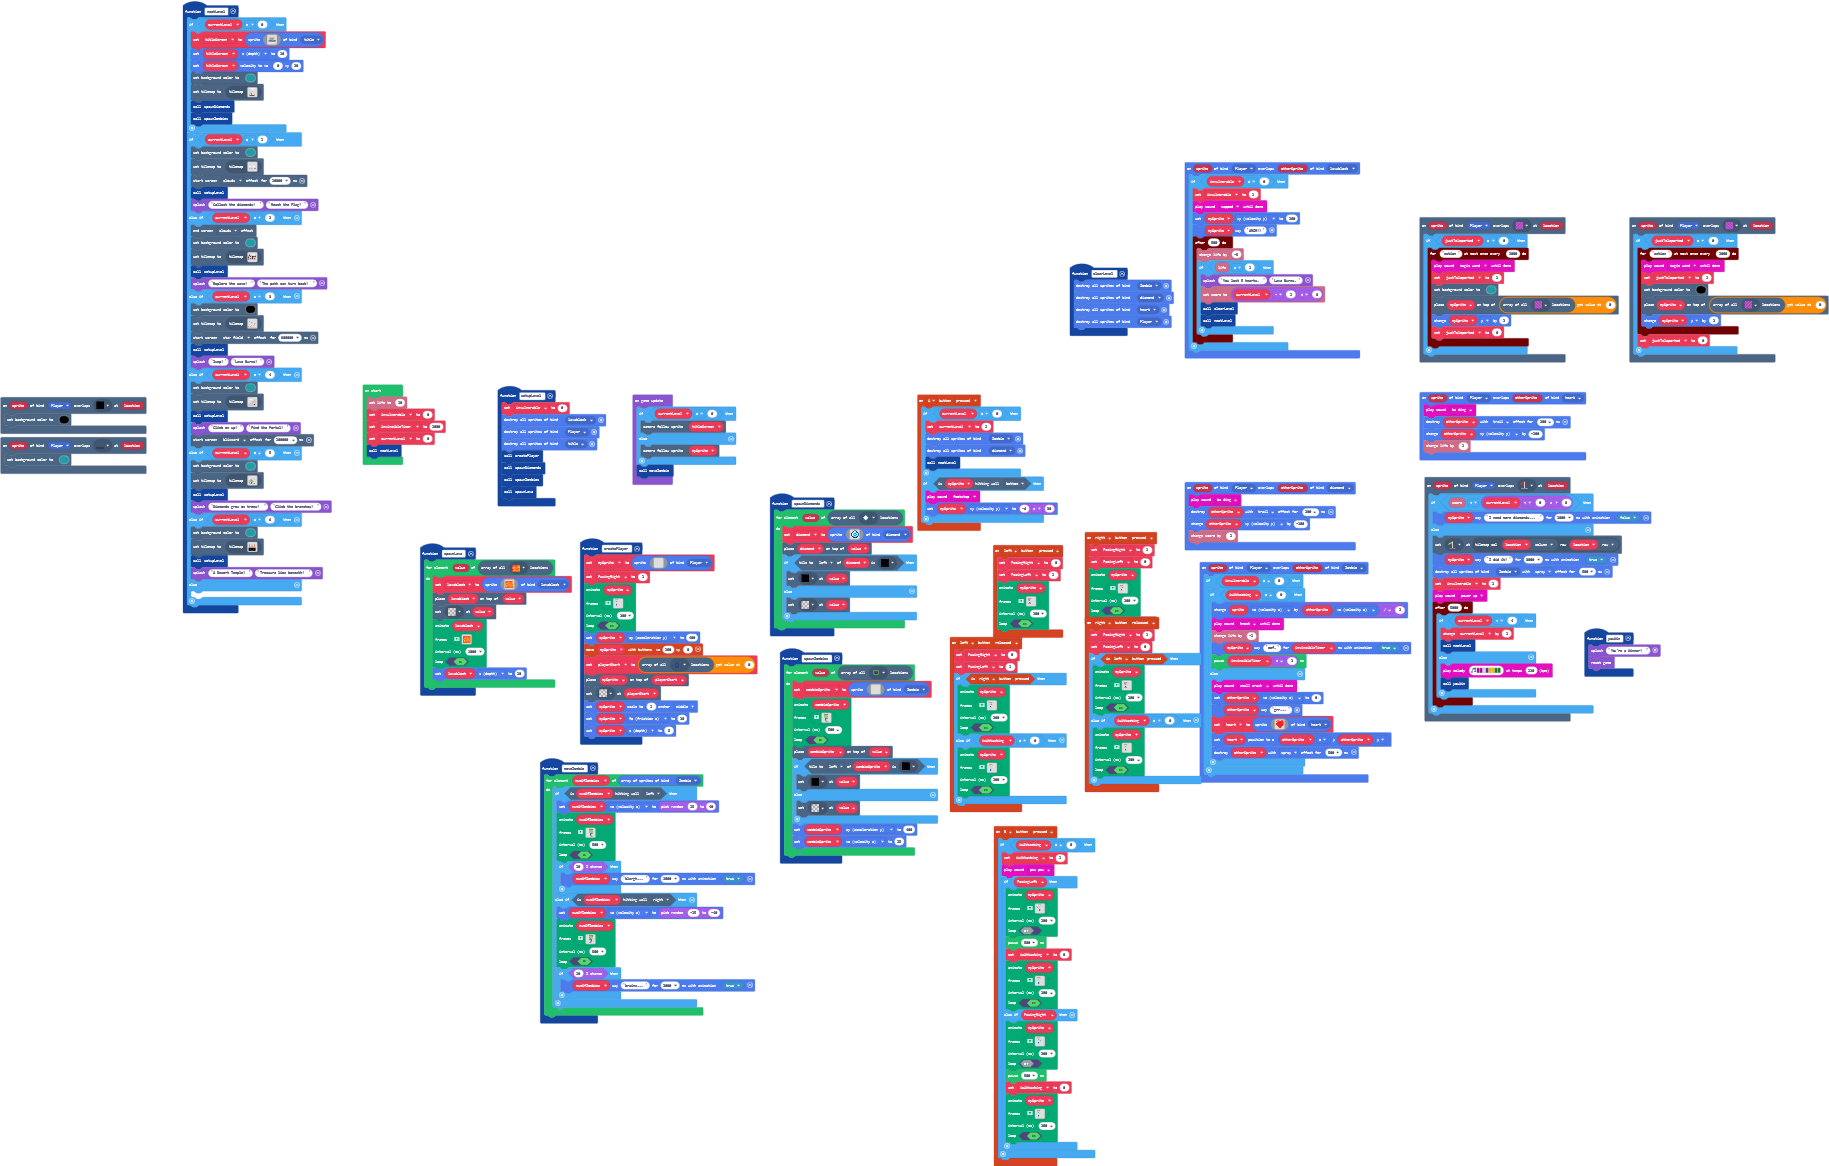
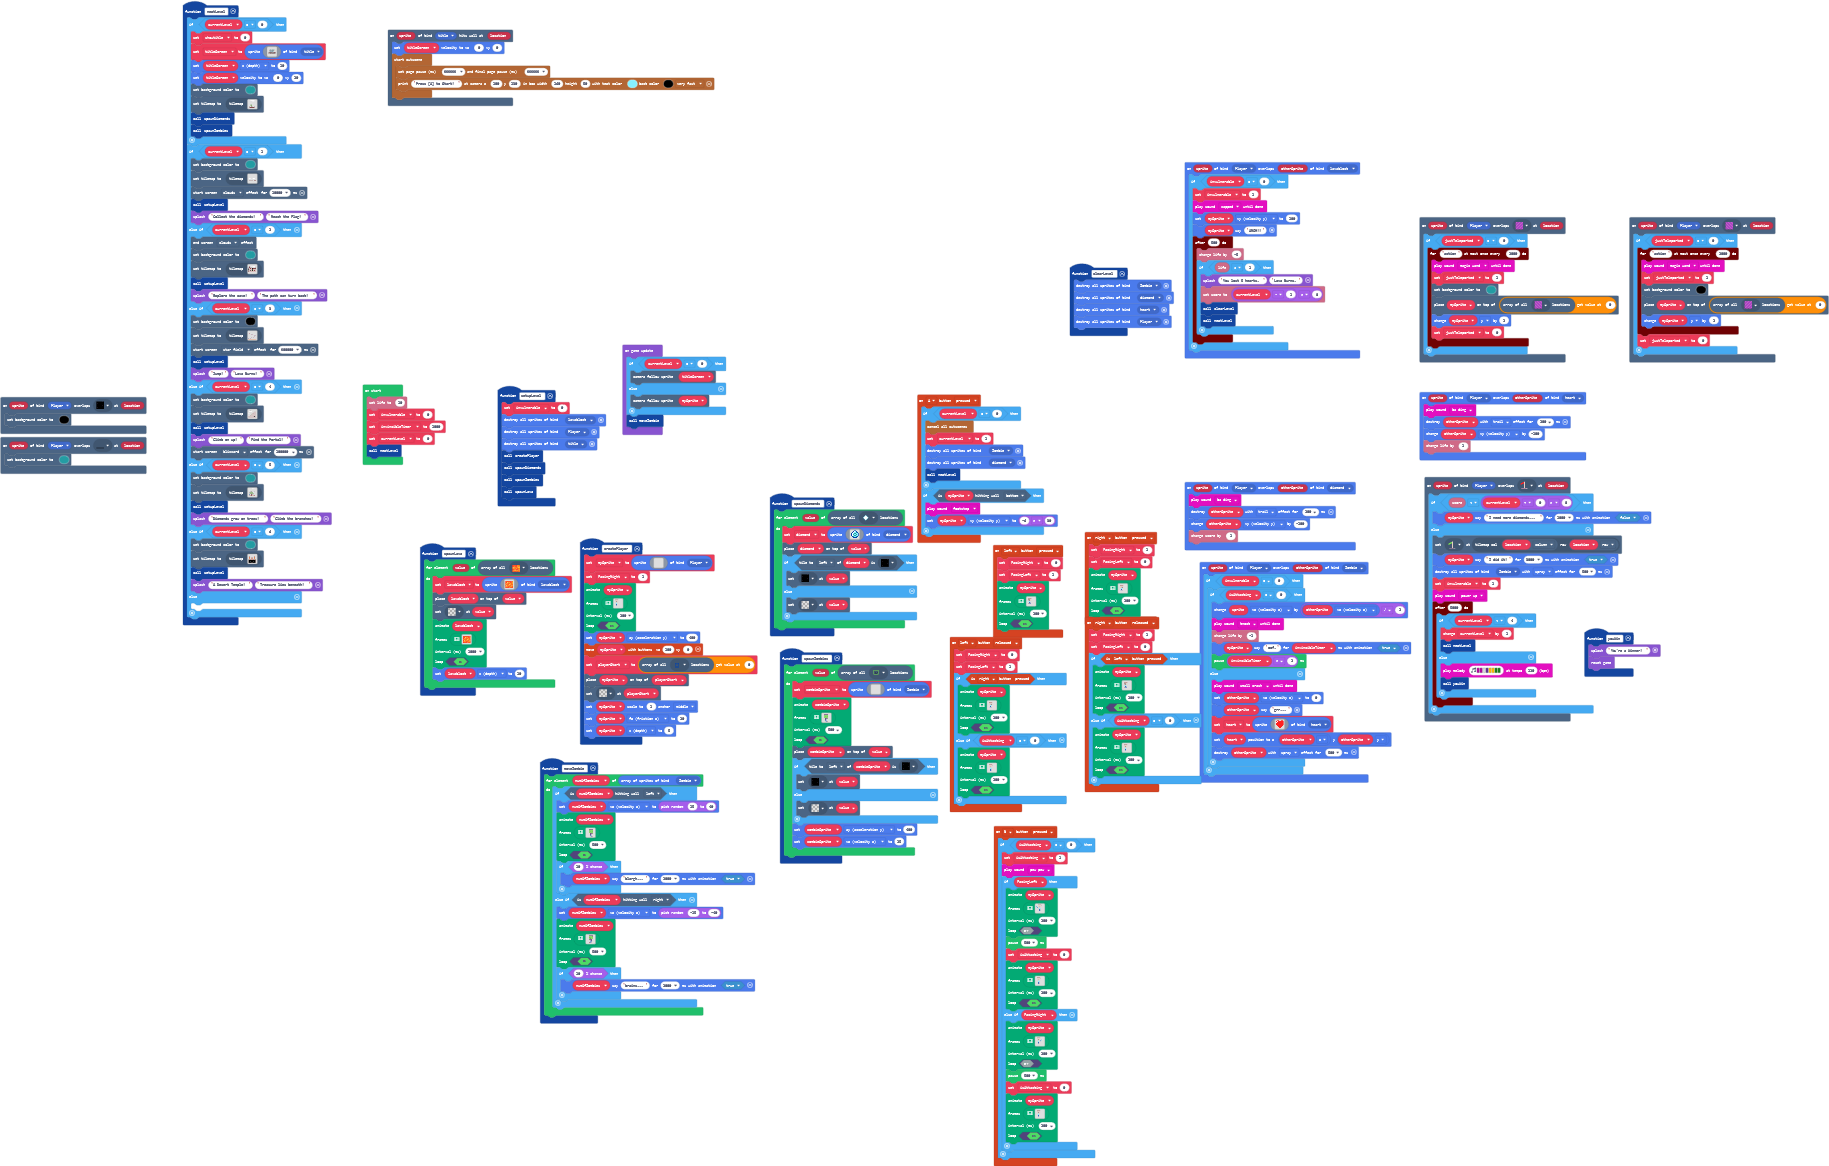
Title Screen Text

Changed region(s): [[0.0935, 0.0, 0.4051, 0.5557], [0.4986, 0.3396, 0.5921, 0.4631], [0.3428, 0.2779, 0.4051, 0.4322]]

diff --git a/main.ts b/main.ts
@@ -115,8 +115,16 @@ sprites.onOverlap(SpriteKind.Player, SpriteKind.heart, function (sprite, otherSp
     otherSprite.vy += -100
     info.changeLifeBy(1)
 })
+scene.onHitWall(SpriteKind.title, function (sprite, location) {
+    titleScreen.setVelocity(0, 0)
+    story.startCutscene(function () {
+        story.setPagePauseLength(999999, 999999)
+        story.printDialog("Press [A] to Start!", 100, 130, 50, 160, 9, 15, story.TextSpeed.VeryFast)
+    })
+})
 controller.A.onEvent(ControllerButtonEvent.Pressed, function () {
     if (currentLevel == 0) {
+        story.cancelAllCutscenes()
         currentLevel = 1
         sprites.destroyAllSpritesOfKind(SpriteKind.Zombie)
         sprites.destroyAllSpritesOfKind(SpriteKind.diamond)
@@ -260,6 +268,7 @@ controller.right.onEvent(ControllerButtonEvent.Pressed, function () {
 })
 function nextLevel () {
     if (currentLevel == 0) {
+        showtitle = 0
         titleScreen = sprites.create(assets.image`Title Screen`, SpriteKind.title)
         titleScreen.z = 10
         titleScreen.setVelocity(0, 20)
@@ -387,9 +396,10 @@ function youWin () {
 let lavablock: Sprite = null
 let playerStart: tiles.Location = null
 let heart: Sprite = null
-let titleScreen: Sprite = null
+let showtitle = 0
 let diamond: Sprite = null
 let justTeleported = 0
+let titleScreen: Sprite = null
 let FacingRight = 0
 let FacingLeft = 0
 let isAttacking = 0
